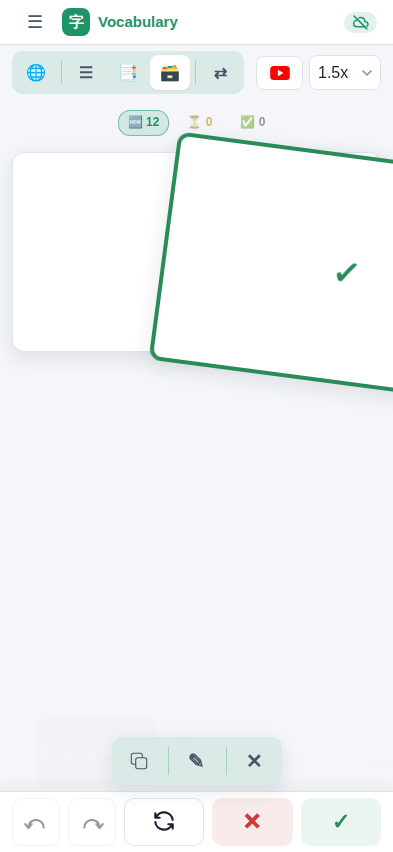
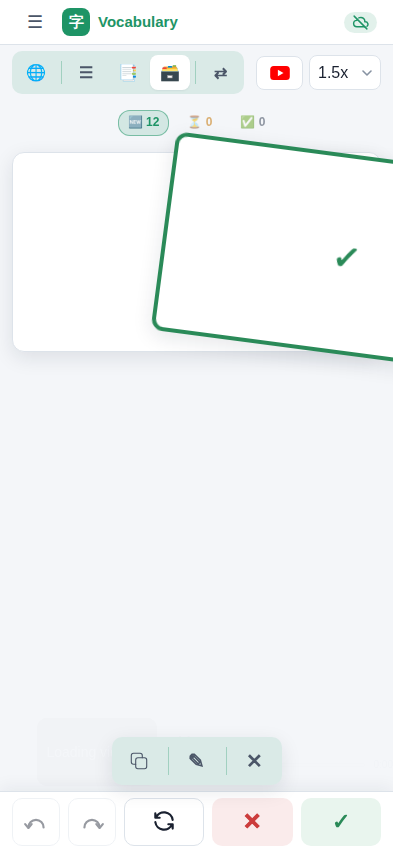
Listening: subtitle layout and Group's dictionary panels
- The card lays each sentence out like a video subtitle, centred and
  without boxes: time on top, question in bold, answer in green below
- Same layout for a lone last card
- Panels underneath show the card's time, question, answer and notes,
  as in Group

Claude-Session: https://claude.ai/code/session_014V8q72mFTe1AjYmi4UdURH

Changed region(s): [[0.3664, 0.1526, 1.0, 0.4577], [0.855, 0.2746, 0.916, 0.3357]]

diff --git a/index.html b/index.html
@@ -481,6 +481,8 @@ window.onYouTubeIframeAPIReady = function(){
     .shell .single-card-body{padding:24px 16px;}
     .shell .single-card-field{padding:14px 10px;}
     .shell .single-card-field .cell{font-size:20px;padding:2px 6px;}
+    .shell .listen-batch .listen-pair .cell{padding:0 5px;}
+    .shell .listen-batch .listen-pair .single-card-a .cell{font-size:15px;}
   }
   html.touch input[type=text], html.touch input[type=search], html.touch input[type=email], html.touch input[type=password], html.touch textarea, html.touch select{font-size:16px;}
   html.touch .segmented button{min-width:46px;padding:8px 12px;}
@@ -858,9 +860,14 @@ window.onYouTubeIframeAPIReady = function(){
     display:flex;flex-direction:column;align-items:center;justify-content:center;gap:6px;
     min-height:72px;border-radius:10px;padding:18px 18px;
   }
-  .single-card-body.listen-batch:not(.edit-row){gap:30px;}
-  .listen-pair{display:flex;flex-direction:column;gap:10px;border-radius:12px;transition:box-shadow .15s ease;}
+  .single-card-body.listen-batch:not(.edit-row){gap:20px;}
+  .listen-pair{display:flex;flex-direction:column;align-items:center;gap:5px;padding:10px;border-radius:12px;transition:box-shadow .15s ease;}
   .listen-pair.row-playing{box-shadow:0 0 0 4px var(--accent-soft);}
+  .listen-batch .listen-pair .single-card-field{min-height:0;padding:0;background:none;border-radius:0;}
+  .listen-batch .listen-pair .cell{padding:0 10px;text-align:center;}
+  .listen-batch .listen-pair .single-card-q .cell.shown{font-weight:600;}
+  .listen-batch .listen-pair .single-card-a .cell{font-size:20px;}
+  .listen-batch .listen-pair .single-card-q .cell > .loop-time:first-child{display:block;width:fit-content;margin:0 auto 5px;font-weight:400;}
   .single-card-q{background:var(--q-bg);}
   .single-card-a{background:var(--a-bg);}
   .single-card-field .cell{font-size:24px;line-height:1.5;text-align:left;padding:2px 16px;border-radius:8px;}
@@ -3118,7 +3125,7 @@ function renderDictPanels() {
       preload = rows.filter(r => ids.includes(r.id)).concat(dueRows("Listen").slice(0, 1));
     }
   }
-  host.classList.toggle("with-source", !!groupState && inTable);
+  host.classList.toggle("with-source", !!groupState && (inTable || inSingle && isListenMode()));
   const now = Date.now();
   let notesLen = 0;
   rows.forEach(r => {
@@ -3387,10 +3394,10 @@ function renderSingleCard(visibleRows) {
   }
   bodyEl.dataset.id = row.id;
   bodyEl.classList.remove("edit-row");
-  bodyEl.classList.toggle("row-playing", batch.length === 1 && loopingRowId === row.id);
+  bodyEl.classList.toggle("row-playing", !isListenMode() && loopingRowId === row.id);
   bodyEl.classList.toggle("ielts-card", groupViewStyle === "ielts");
-  bodyEl.classList.toggle("listen-batch", batch.length > 1);
-  bodyEl.innerHTML = groupViewStyle === "ielts" ? ieltsPaperHtml(row) : batch.length > 1 ? listenPairsHtml(batch) : singleCardFieldsHtml(row);
+  bodyEl.classList.toggle("listen-batch", isListenMode());
+  bodyEl.innerHTML = groupViewStyle === "ielts" ? ieltsPaperHtml(row) : isListenMode() ? listenPairsHtml(batch) : singleCardFieldsHtml(row);
   if (groupViewStyle === "ielts") {
     if (isTranslationCard(row) && !isVirtualLesson()) setTimeout(() => {
       if (groupState && groupViewStyle === "ielts" && getCurrentSingleCardRow() === row) warnTranslationCard(row);
@@ -6494,7 +6501,7 @@ function showNextUnderSwipe(row) {
     const body = document.getElementById("singleCardBody");
     if (next) {
       Array.from(body.children).forEach(el => el.style.display = "none");
-      body.insertAdjacentHTML("beforeend", groupViewStyle === "ielts" ? ieltsPaperHtml(next, 1) : nextBatch.length > 1 ? listenPairsHtml(nextBatch) : singleCardFieldsHtml(next));
+      body.insertAdjacentHTML("beforeend", groupViewStyle === "ielts" ? ieltsPaperHtml(next, 1) : isListenMode() ? listenPairsHtml(nextBatch) : singleCardFieldsHtml(next));
     } else {
       hide(body);
     }

diff --git a/README.md b/README.md
@@ -19,7 +19,7 @@ The whole app is one file, `index.html`. There is no build step and nothing to i
 | --- | --- |
 | ☰ Full | The whole lesson as a list, for browsing and editing. No spaced repetition. A ＋ bar under the mode buttons (once the lesson has cards; a new, empty lesson shows the add form with its own ＋, and a lesson whose last card is moved or deleted opens Add cards, with the lesson picked, as Vocabulary opens Add vocabularies when its last word goes), in the logo's colour, shows how many cards the lesson has in front of the ＋ (such as 97 ＋) and adds a card at the top of the list (the same as the count and ＋ on the Vocabulary word list, at the same height). In a text lesson, clicking a card (its question or its answer) copies the whole card, question and answer together, in one click, and pointing at either part shades both. In a text lesson the list is a notebook page: white ruled paper with a red margin (on a phone there is no margin line, and the text sits a little further in from both edges), each question as a heading in the lesson colour with its answer written on the lines below, and the editor puts the short question on one line above a large answer box, without a dictionary. No table has a column of ✎, ✕ or 字 buttons, on a computer or a phone, in Lessons or in Vocabulary: point at a card (or select it on a phone) and press E to edit it, Delete to delete it or, in a text lesson, V to move it to Vocabulary, flying off as the logo (on a phone the bar of copy, ✎, ✕ and 字 described below does the same): the question becomes a word, the answer its meaning, and words filed under the card go along; if the sentence is already a word, the card just leaves the lesson. Undo brings it back. In every editor a coloured line starts each box: blue for the question, green for the answer, grey for the notes, and the answer box fits its text. |
 | Group | Due cards three at a time (the last two groups of a session are balanced, so 4 left become 2 + 2), each group listed in video-time order (0:05, 0:10, 0:15), so its clips play like a stretch of the video. Shown in video lessons. Once a card's answer is shown, its dictionary panel also shows the card's notes under the meaning, in the same size as the notes on a flashcard. Click the notes (tap them on a phone) to edit them right there, like the answer (also tapped on a phone): Return saves, Shift + Return starts a new line, Esc cancels, and undo brings the old notes back. The table of three works the sound as before (▶ plays the group, 1 – 3 loops one row). Under it each sentence has its own dictionary panel, and working in a panel (clicking or selecting in it, clicking its stroke order or its dictionary, editing it) means you are on that one sentence: the sound switches by itself to playing just that sentence over and over, like pressing its number. Since everything in a panel reacts to a click, pointing at its sentence, meaning or notes shows a hand, as everywhere in the app that a click does something; the text cursor appears only inside a box you are typing in. This works every time, not just once: after pressing 1 – 3, Space or ▶ for something else, going back to work in a panel loops that panel's sentence again, and moving to another panel switches to that sentence. The one exception: if you stop the sound altogether (Space, ▶, the sentence's number or its badge in the panel) while working in a panel, it stays quiet as you keep working in that same panel; moving to another panel, or clicking in the table and coming back, plays again. For that case the sentence in each panel starts with the same badge as its row in the table: the video time (1:09), or 🔊 for a card without video. Clicking it loops that sentence, or stops it when it is the one looping, and it lights up while the sentence plays. In the table too, a card without video has 🔊 in front of its question, as in Vocabulary's Group, to read it aloud over and over (click again to stop). |
-| Listening | Cards come in groups, by the same rule as Group (three at a time, the last two balanced, each group in video-time order), all in one card frame: each card's question box (starting with its time, 0:05) with its answer box right under it when it has one, then the next card's, the three cards spaced a little further apart so they are not mixed up. The clips play first, in turn; Space shows all three; each card gets its dictionary panel with stroke order underneath; grading grades all three (or just the card you point at, which then flies off on its own), Delete deletes all three (or the card you point at), E edits the card you point at, and the copy button copies all three. The three stay together until each is graded; a session's last card can come on its own. Shown when the lesson has video cards. |
+| Listening | Cards come in groups, by the same rule as Group (three at a time, the last two balanced, each group in video-time order), all in one card frame laid out like video subtitles, centred, with no boxes: each card's time (0:05) on top, its question in bold under it and its answer in green right under that, then the next card's, with white space between the three. The clips play first, in turn; Space shows all three; each card gets its dictionary panel underneath, the same panel as in Group (the card's time and question, its answer and notes, the stroke order and the dictionary); grading grades all three (or just the card you point at, which then flies off on its own), Delete deletes all three (or the card you point at), E edits the card you point at, and the copy button copies all three. The three stay together until each is graded; a session's last card can come on its own. Shown when the lesson has video cards. |
 | 🗒 Speaking | Laid out as an exam paper, one question at a time, for speaking practice of any kind: a white ruled sheet headed with the lesson's name, Question 2 of 5 and a clock that runs while you answer out loud; the heading stays in the same place when the answer is shown, so nothing jumps. The question is numbered, in the lesson colour; the ruled lines below it show ···, and the answer comes in two steps, the same with a click (or tap) on the paper, Space, Return or the phone's button (which reads Hint, then Show): the first writes a hint on those lines, the meanings of the lesson's words in the answer, in the order they come, without the words themselves, in the paper's normal ink, numbered with the numbers lined up on the left (the same in Notes); the second writes the answer there. A question without notes skips the hint and shows the answer at once. The clock is not clickable. Before the answer is shown the hint is the only help. A text lesson (the kind studied with Speaking) shows no pinyin or reading when you point at (or tap) its questions and answers, anywhere: not on the Speaking paper and not in the ☰ Full notebook. The answer then comes on the left, with the lesson's words highlighted like a highlighter pen, and a numbered Notes list of those words and meanings on the right, divided from it by a red line; Notes takes only as much width as its lines need (up to a little under half the paper), so short notes leave the answer more room and long ones are not broken over two lines without need, and each note sits a little apart from the next (on a phone, Notes comes under the answer); the clock stops. As in Listening, once the answer is shown it stays until you grade: Space, a click on the paper and the phone's button (greyed out) do nothing more. ← or → grades, as everywhere. The paper takes the normal dark background in the dark theme. Everything the question does elsewhere, the answer does here: once the answer is shown, the foot of the paper, across its whole width under the answer and Notes, shows the stroke order of its characters and the dictionary for it (there is no separate panel; the paper's sections sit 32 px apart and its dictionary is 360 px tall, like the others, the dictionary moves with the page as you scroll, and the dictionaries of the current and next questions load while the question is still showing). Pointing at the answer keeps its ruled lines and shows a hand, since clicking it opens the card editor, as in Listening, and selecting part of the answer on the paper and pressing Shift adds it as a word. On a computer there are no buttons for the card: E edits it, Delete deletes it and V moves it to Vocabulary; on a phone copy, ✎, ✕ and 字 are in the bar above the bottom buttons. A card whose answer is a translation of its question (the two are in different languages) belongs in Vocabulary: when one comes up in Speaking, a box in the middle of the screen says so and offers Move card, Move all (when the lesson has more such cards; they all go at once) or Cancel (Enter moves, Esc cancels; other keys do nothing while it is open); it asks once per card. There is no sound button, and Space does nothing once the answer is shown. In a text lesson the card editor does the same with the answer box: it highlights the words, Shift adds a selected part as a word, and the dictionary under it translates the answer. Shown in lessons without a video; it uses the same spaced repetition as Group. |
 
 In a video lesson the video sits in a player bar as wide as the lesson, fully transparent, also while it is pinned over the cards: the video plays in the small picture on the left, beside its title and a progress bar you can drag with the time and length. Click the picture and the video grows out of it, with a genie effect, into a large player as wide as the lesson, shown in full in every mode (Listening covers only the small picture); the button in its corner shrinks it back into the bar. The bar stays pinned at the top as you scroll; the large player scrolls away with the page while the mode buttons stay pinned, and making it large (with the picture or Y) scrolls the page back up to it. ▶ and the speed beside the mode buttons work as before. The mode buttons have no tooltips.
@@ -93,7 +93,7 @@ The mode buttons have no tooltips, and Vocabulary has no dictionary button. 🔊
 
 Editing a word (E, ✎, or ＋ for a new one) opens the same three boxes as a card in Lessons, with the same coloured lines: Question (blue), Answer (green) and Notes (grey). Notes take anything you type or paste, formatting included, with no look-ups or highlighting; Return saves (Shift + Return for a new line) and undo works as usual. A word's notes show on the back of its flashcard, under the meaning, and stay with the word when it is renamed, reset, or moved over from a lesson.
 
-Group and Flashcards share one queue, and a word marked Again comes back after 10 minutes. The toolbar stays pinned to the top of the screen as you scroll, in both modes, as in Lessons. The 🌐 button picks the language; ⇄ picks which side is shown first and hides the other side again (the card gives a short squash, and the side it starts on is coloured as a question or an answer). Only tables carry the words Question and Answer, in their header row; the Listening card, the Speaking paper and the flashcards show no such labels, the question and answer boxes being told apart by their colour. On a phone, Undo, Redo, Show, Again and Good sit in a bar fixed to the bottom of the screen, as in Lessons; on a computer the keys do the same.
+Group and Flashcards share one queue, and a word marked Again comes back after 10 minutes. The toolbar stays pinned to the top of the screen as you scroll, in both modes, as in Lessons. The 🌐 button picks the language; ⇄ picks which side is shown first and hides the other side again (the card gives a short squash, and the side it starts on is coloured as a question or an answer). Only tables carry the words Question and Answer, in their header row; the Listening card, the Speaking paper and the flashcards show no such labels, questions and answers being told apart by their colour. On a phone, Undo, Redo, Show, Again and Good sit in a bar fixed to the bottom of the screen, as in Lessons; on a computer the keys do the same.
 
 As in Lessons, pointing at a word (or tapping its row on a phone) shows its pinyin or reading.
 
